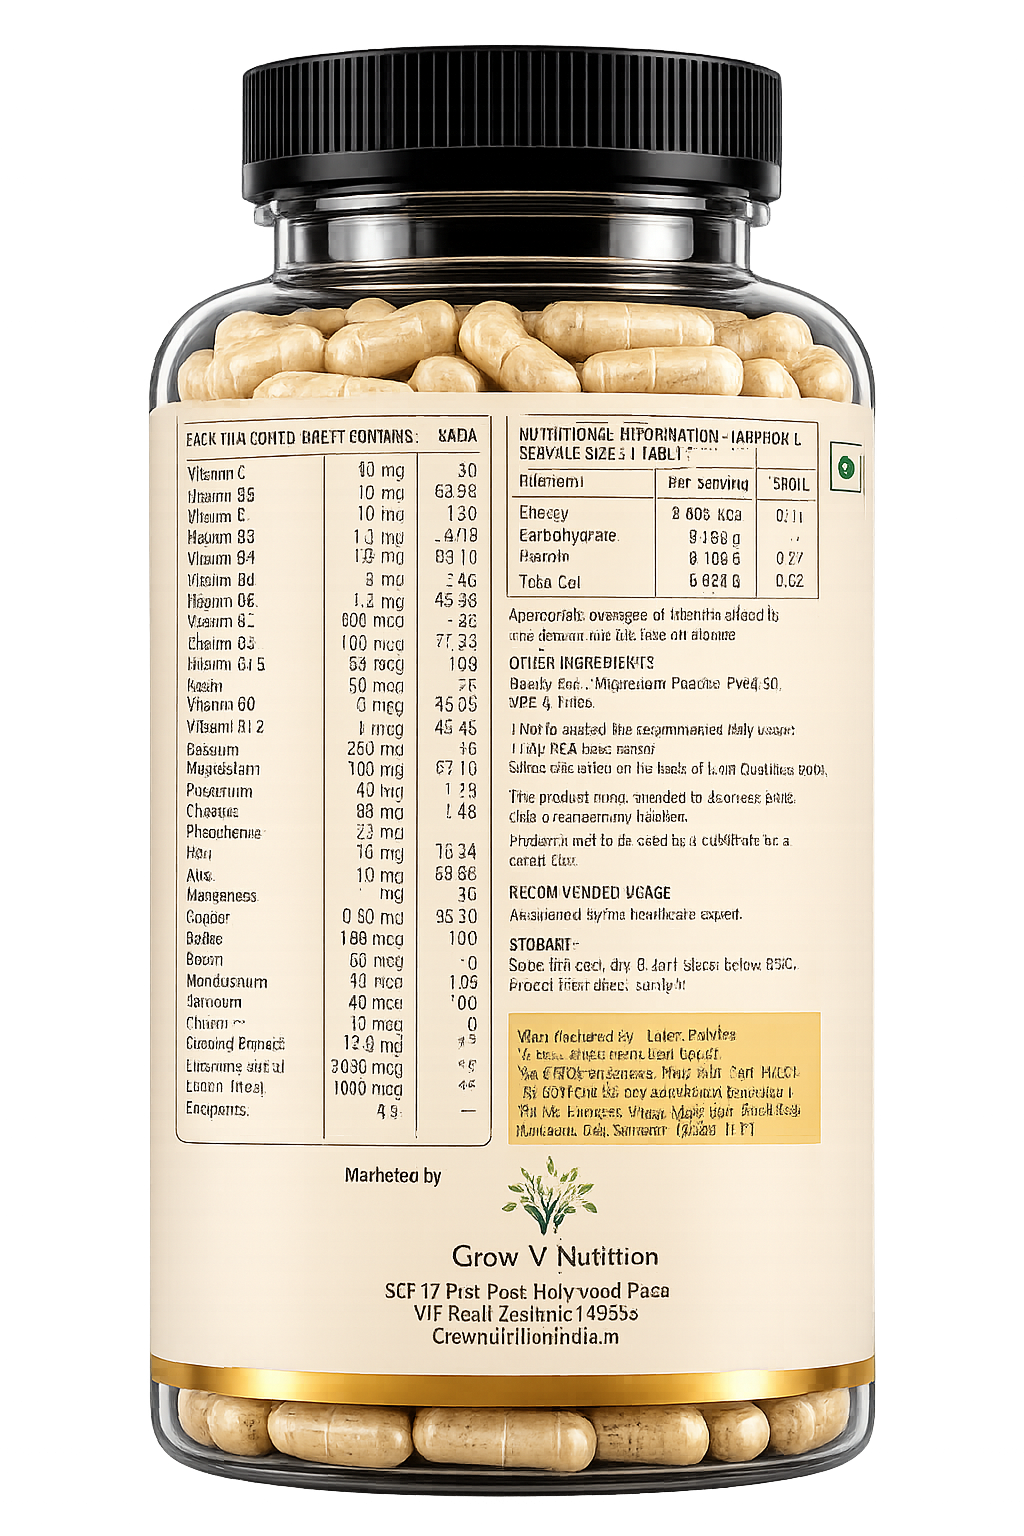
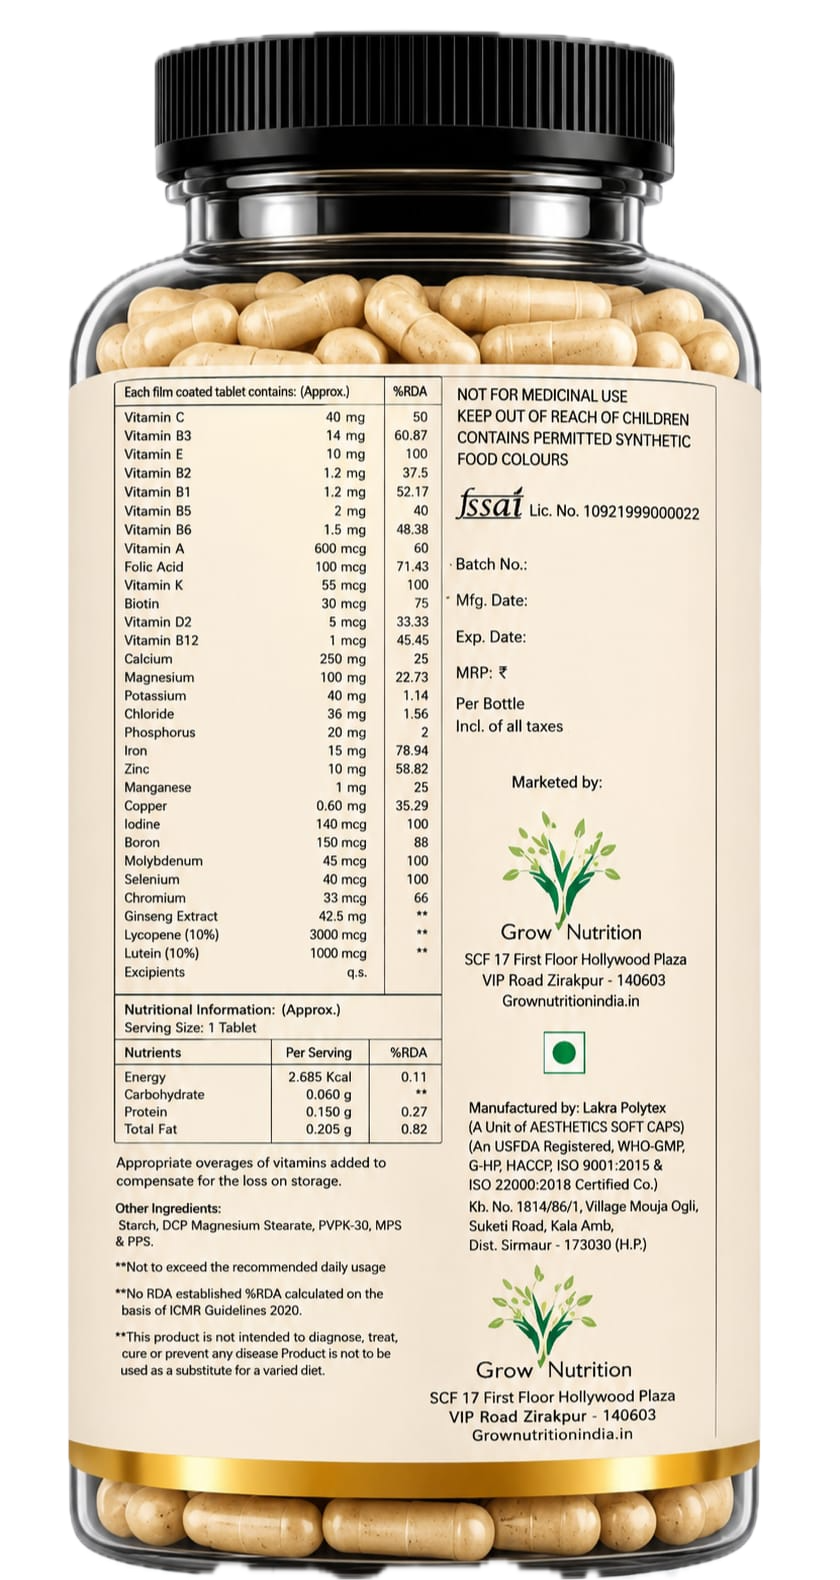
Update product image extensions to PNG and clean up obsolete assets

diff --git a/src/data/products.jsx b/src/data/products.jsx
@@ -8,7 +8,7 @@ export const productsData = {
     price: "Rs 2,499",
     offerPrice: "Rs 1,250",
     image: "/assets/multivitamin.png",
-    images: ["/assets/multivitamin.png", "/assets/multivitaminback.jpeg"],
+    images: ["/assets/multivitamin.png", "/assets/multivitaminback.png"],
     description: "Fuel Your Performance. Protect Your Health. Missing out on vital nutrients can drain your energy and slow you down. Voltigen Multivitamin is your ultimate daily defense, engineered to bridge nutritional gaps, supercharge your immune system, and fuel your everyday vitality. Featuring a high-potency blend of 30 essential nutrients, it delivers complete, premium daily nutrition support in one convenient bottle. Whether you are crushing professional goals, keeping up with a demanding lifestyle, or pushing your limits in training, Voltigen provides the foundational fuel your body needs to thrive.",
     servings: "100 Servings (100 Tablets)",
     usage: "Take 1 tablet daily with water, or as directed by a healthcare expert.",
@@ -66,7 +66,7 @@ export const productsData = {
     price: "Rs 2,799",
     offerPrice: "Rs 1,500",
     image: "/assets/fishoil.png",
-    images: ["/assets/fishoil.png", "/assets/fishoilback.jpeg"],
+    images: ["/assets/fishoil.png", "/assets/fishoilback.png"],
     description: "Voltigen 3x Strength Omega-3 Fish Oil is a premium, high-potency dietary supplement designed to deliver maximum cardiovascular, joint, and cognitive support. Each bottle contains 100 premium softgels packed with an impressive 1250 mg of purified fish oil per serving, yielding an industry-leading 540 mg of EPA and 360 mg of DHA. Engineered for superior absorption and ultimate daily wellness, this ultra-pure formula provides the essential fatty acids your body needs to fuel peak physical performance, protect your heart, and sharpen mental clarity.",
     servings: "100 Premium Softgels",
     usage: "Take 1 to 3 softgels daily with a meal, or as directed by a healthcare professional.",